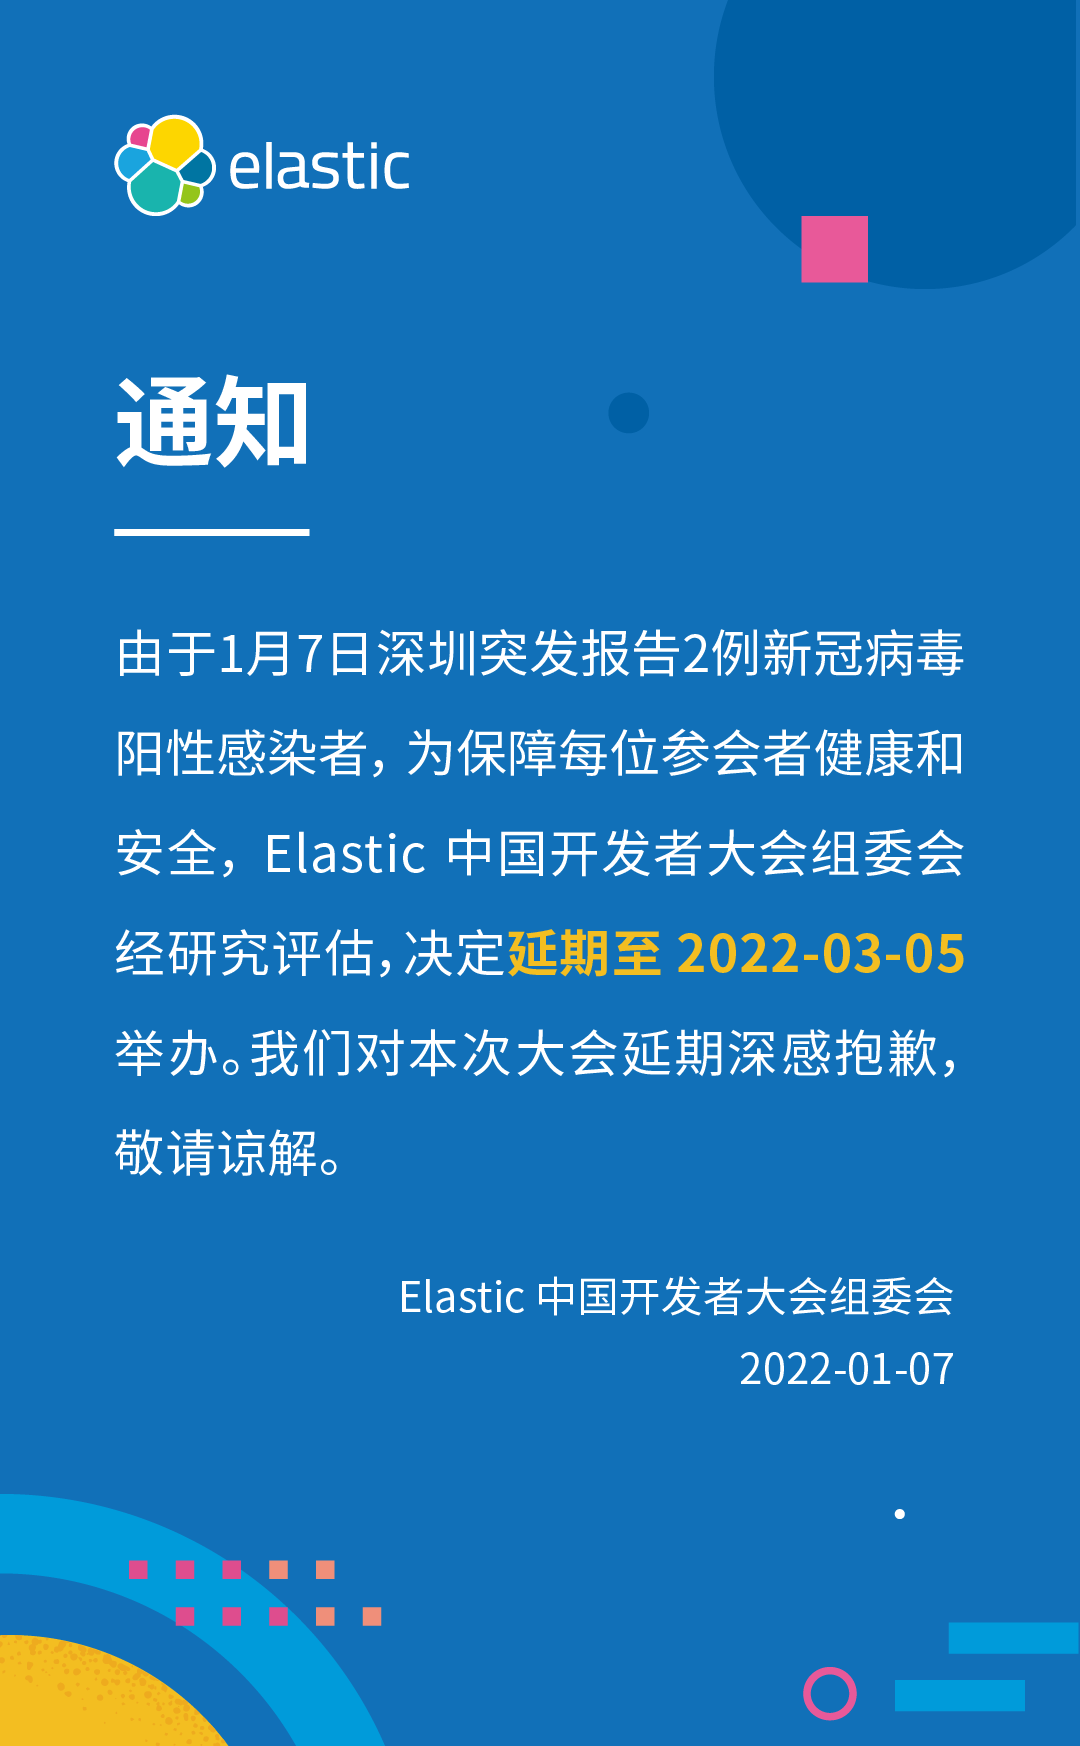
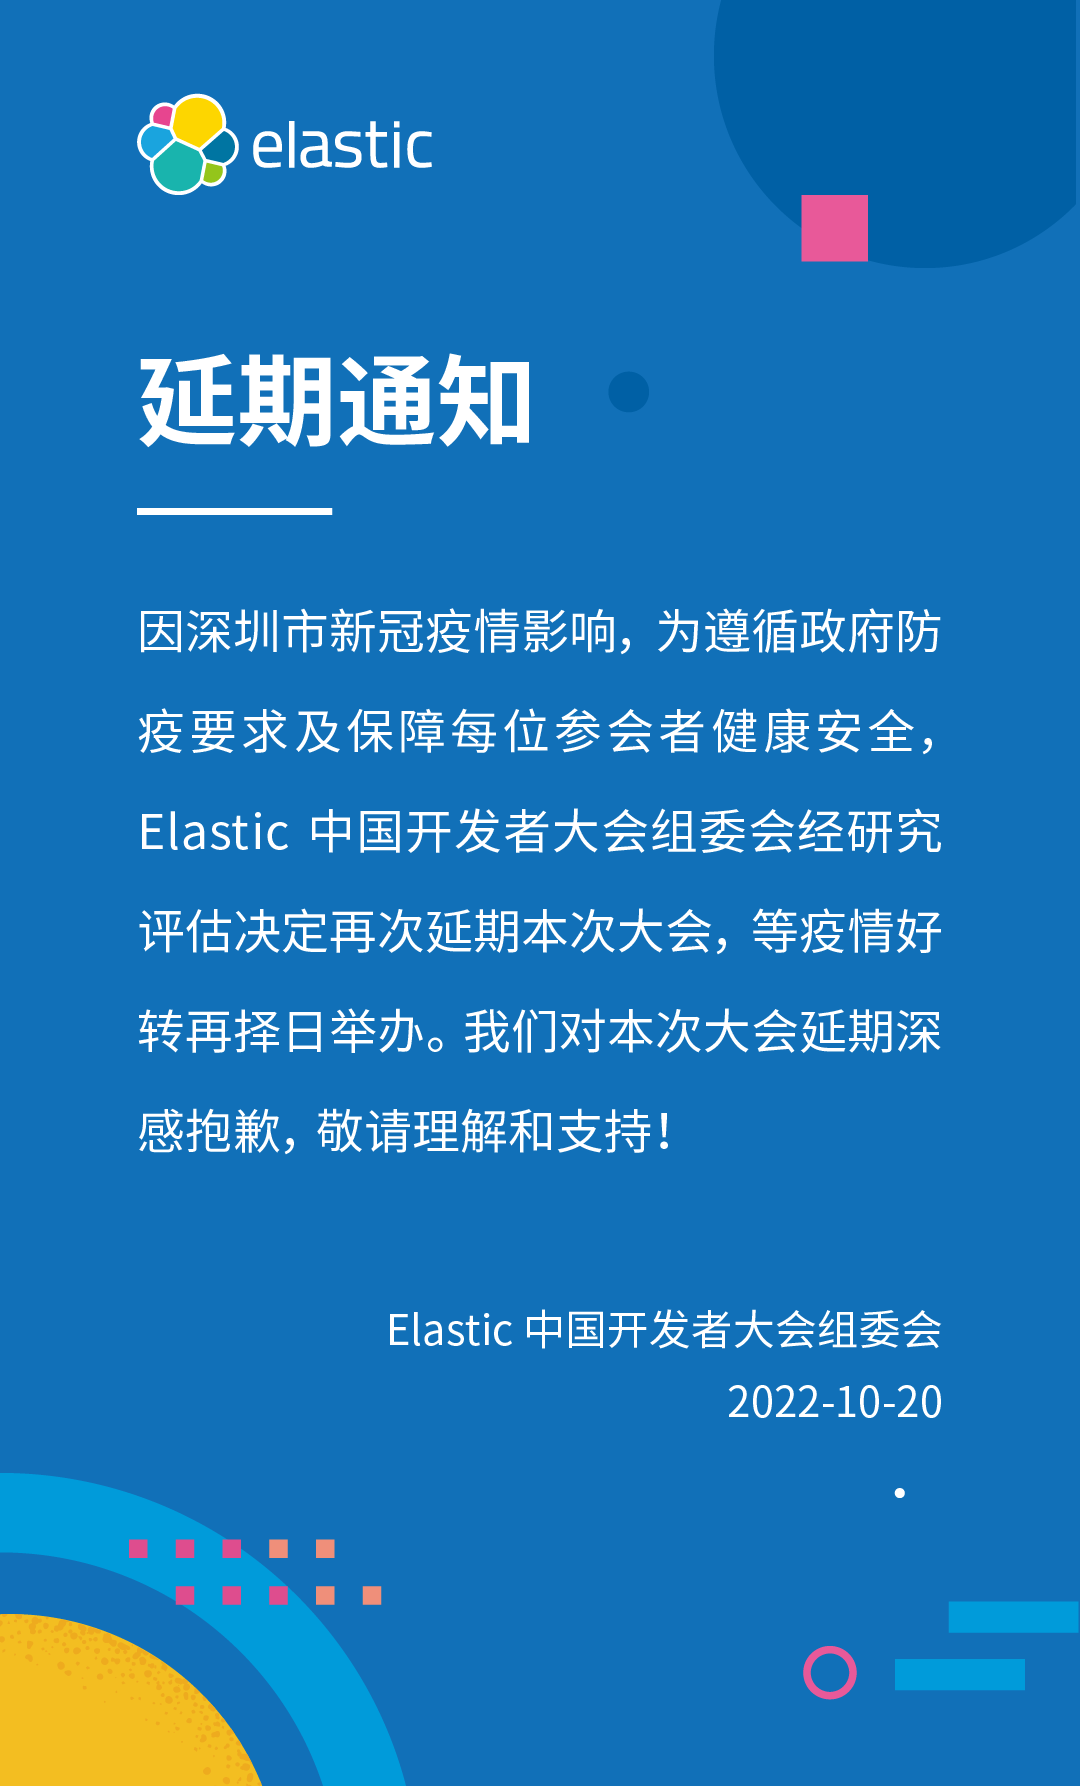
update conf date

diff --git a/2022/index.html b/2022/index.html
@@ -81,7 +81,7 @@
     <header id="site-header" class="site-header sz-2018 valign-center">
         <div class="intro">
             <h1>Elastic 中国开发者大会 2022</h1>
-            <h2>时间：2022-10-29 08:00-18:00</h2>
+            <h2>时间：2022-12-31 08:00-18:00</h2>
             <h2>地点：深圳市福田区深圳好日子皇冠假日酒店</h2>
 
             <!--        <a type="button" class="btn btn-primary btn-lg" target="_blank" href="http://elasticsearch.mikecrm.com/uXH61JL">演讲申请</a>-->
@@ -120,12 +120,12 @@
                         年初一个很小的线下聚会，之后每年迅速成长，往年大会的演讲嘉宾有来自 Elastic
                         官方、百度、腾讯、阿里巴巴、360、微博、美团、58、苏宁等众多公司的技术专家，带来过众多精彩的分享，与会听众大多为大数据领域相关的架构师、技术经理与一线开发工程师和运维工程师。
                         <br /><br />
-                        我们本着非盈利目的来举办大会，今年的大会将于2022年10月29号在深圳举行，举办开发者大会的目的是为中国广大的 Elasticsearch
+                        我们本着非盈利目的来举办大会，今年的大会将于2022年12月31日在深圳举行，举办开发者大会的目的是为中国广大的 Elasticsearch
                         开发者提供一个技术交流和学习切磋的地方，汇集业界众多的成功案例，集思广益，发散思维，促进社区和行业的进步。
                         <br /><br />
                         大会将提前半天组织一场线上游戏赛事：《Elastic安全：CTF夺旗游戏》，CTF 是 "Capture the Flag"
                         (夺旗)的缩写，是一种基于计算机的比赛，通过上手实践教授信息安全技能。
-                        赛事时间段：2022-10-28 12:00 ~ 23:59，赛后冠亚军将获得 Elastic 官方提供价值 $400 美金的 Elastic 认证工程师考试券，详情参见 <a
+                        赛事时间段：2022-12-30 12:00 ~ 23:59，赛后冠亚军将获得 Elastic 官方提供价值 $400 美金的 Elastic 认证工程师考试券，详情参见 <a
                             href="./ctf.html">CTF介绍</a>。
                         <br /><br />
                         鉴于当前疫情防控形势，为保障每位参会者健康和安全，根据深圳市相关防疫要求，经大会组委会评估，本次大会防疫措施制定如下：<a href="./guide.html#eg">防疫须知</a>。
@@ -805,16 +805,16 @@
     <script src="/static/js/date-util.js"></script>
     <script src="/static/plugins/sweetalert2/sweetalert2.all.min.js"></script>
     <script>
-    // Swal.fire({
-    //     imageUrl: '/static/images/2021/others/elastic_delay_notice_0528.png',
-    //     imageWidth: 300,
-    //     imageAlt: '大会延期公告',
-    //     title: '大会延期公告',
-    //     timer: 15000,
-    //     // title: '大会延期公告',
-    //     // text: '由于1月7日深圳突发报告2例新冠病毒阳性感染者，为保障每位参会者健康和安全，Elastic中国开发者大会组委会经研究评估，决定延期至 2022-10-29 举办。对本次大会延期大会组委会表示抱歉，敬请谅解。',
-    //     // confirmButtonText: 'OK',
-    // })
+        Swal.fire({
+            imageUrl: '/static/images/2021/others/elastic_delay_notice.png',
+            imageWidth: 300,
+            imageAlt: '大会延期公告',
+            title: '大会延期公告',
+            timer: 8000,
+            // title: '大会延期公告',
+            // text: '由于1月7日深圳突发报告2例新冠病毒阳性感染者，为保障每位参会者健康和安全，Elastic中国开发者大会组委会经研究评估，决定延期至 2022-12-31 举办。对本次大会延期大会组委会表示抱歉，敬请谅解。',
+            // confirmButtonText: 'OK',
+        })
     </script>
 
     <script type="text/javascript" src="//api.map.baidu.com/api?v=3.0&ak=DDU325vxk16zPn6DKlS6Qffx"></script>

diff --git a/2022/schedule.html b/2022/schedule.html
@@ -94,7 +94,7 @@
                 <div class="col-md-12">
                     <table class="schedule-pc" cellpadding="0" cellspacing="0">
                         <tr class="schedule-pc-header">
-                            <td>10月28日</td>
+                            <td>12月30日</td>
                             <td colspan="5" class="col-item colspan">Elastic 安全游戏赛事</td>
                         </tr>
                         <tr>
@@ -113,7 +113,7 @@
                 <div class="col-md-12">
                     <table class="schedule-pc" cellpadding="0" cellspacing="0">
                         <tr class="schedule-pc-header">
-                            <td>10月29日</td>
+                            <td>12月31日</td>
                             <td colspan="5" class="col-item colspan">主会场</td>
                         </tr>
                         <tr>
@@ -480,14 +480,14 @@
                 <div class="col-md-12">
                     <div class="m-schedule-list">
                         <div class="m-schedule-section">
-                            <div class="m-schedule-header"><span class="m-schedule-title">【10月28日】Elastic 安全：CTF
+                            <div class="m-schedule-header"><span class="m-schedule-title">【12月30日】Elastic 安全：CTF
                                     夺旗游戏</span></div>
                             <div class="m-schedule-content">
                                 <div class="m-schedule-time"><span>12:00</span></div>
                                 <div class="m-schedule-timeline"></div>
                                 <div class="m-speech-content">
                                     <a class="m-speech-content" href="ctf.html">
-                                        <div class="m-speech-title">CTF 开始（2022-10-28 12:00）</div>
+                                        <div class="m-speech-title">CTF 开始（2022-12-30 12:00）</div>
                                     </a>
                                 </div>
                             </div>
@@ -496,7 +496,7 @@
                                 <div class="m-schedule-timeline"></div>
                                 <div class="m-speech-content">
                                     <a class="m-speech-content" href="ctf.html">
-                                        <div class="m-speech-title">CTF 结束（2022-10-28 23:59）</div>
+                                        <div class="m-speech-title">CTF 结束（2022-12-30 23:59）</div>
                                     </a>
                                 </div>
                             </div>
@@ -504,7 +504,7 @@
                         </div>
 
                         <div class="m-schedule-section">
-                            <div class="m-schedule-header"><span class="m-schedule-title">【10月29日】主会场</span></div>
+                            <div class="m-schedule-header"><span class="m-schedule-title">【12月31日】主会场</span></div>
                             <div class="m-schedule-content">
                                 <div class="m-schedule-time"><span>07:30</span></div>
                                 <div class="m-schedule-timeline"></div>

diff --git a/2022/live.html b/2022/live.html
@@ -142,7 +142,7 @@
             <div class="live-box">
                 <div class="row">
                     <div class="col-md-12">
-                        <h3 class="section-title sub-title">主会场 <small>直播时段：2022-10-29 周六 08:45-12:15</small></h3>
+                        <h3 class="section-title sub-title">主会场 <small>直播时段：2022-12-31 周六 08:45-12:15</small></h3>
                     </div>
                 </div>
                 <div class="row">
@@ -188,7 +188,7 @@
             <div class="live-box">
                 <div class="row">
                     <div class="col-md-12">
-                        <h3 class="section-title sub-title">分会场A <small>直播时段：2022-10-29 周六 13:30-16:30</small></h3>
+                        <h3 class="section-title sub-title">分会场A <small>直播时段：2022-12-31 周六 13:30-16:30</small></h3>
                     </div>
                 </div>
                 <div class="row">
@@ -222,7 +222,7 @@
             <div class="live-box">
                 <div class="row">
                     <div class="col-md-12">
-                        <h3 class="section-title sub-title">分会场B <small>直播时段：2022-10-29 周六 13:30-17:00</small></h3>
+                        <h3 class="section-title sub-title">分会场B <small>直播时段：2022-12-31 周六 13:30-17:00</small></h3>
                     </div>
                 </div>
                 <div class="row">
@@ -268,7 +268,7 @@
             <div class="live-box">
                 <div class="row">
                     <div class="col-md-12">
-                        <h3 class="section-title sub-title">分会场C <small>直播时段：2022-10-29 周六 13:30-16:30</small></h3>
+                        <h3 class="section-title sub-title">分会场C <small>直播时段：2022-12-31 周六 13:30-16:30</small></h3>
                     </div>
                 </div>
                 <div class="row">

diff --git a/2022/guide.html b/2022/guide.html
@@ -93,14 +93,14 @@
         <div class="wrap">
             <div class="item">
                 <img src="/static/images/2021/bg/banner_guide.png">
-                <p>2022 Elastic 中国开发者大会将于2022年10月29日周六在深圳好日子皇冠假日酒店召开。届时将有来自
+                <p>2022 Elastic 中国开发者大会将于2022年12月31日周六在深圳好日子皇冠假日酒店召开。届时将有来自
                     Elastic、Google、腾讯、阿里、字节、vivo等公司22位技术专家为大家带来围绕 Elastic 开源技术的精彩分享。</p>
                 <p>在精彩的演讲之余，大会同时开设了现场幸运抽奖、现场闪电演讲、招聘墙、合影区、照片打印等全方位的互动环节为嘉宾带来丰富的参会体验，等你来玩哦~</p>
             </div>
             <div class="item" id="eg">
                 <div class="title">防疫须知</div>
                 <p>鉴于当前疫情防控形势，为保障每位参会者健康和安全，根据深圳市相关防疫要求，经大会组委会评估，本次 Elastic
-                    中国开发者大会防疫措施制定如下。该防疫措施适用于大会所有参会嘉宾，执行期为2022年10月29日。</p>
+                    中国开发者大会防疫措施制定如下。该防疫措施适用于大会所有参会嘉宾，执行期为2022年12月31日。</p>
                 <p>查看最新的广东省深圳市出行防疫政策（<a
                         href="https://www.gd.gov.cn/gdywdt/zwzt/yqfkzccs/dszc/index.html">https://www.gd.gov.cn/gdywdt/zwzt/yqfkzccs/dszc/index.html</a>）;
                 </p>

diff --git a/2022/ctf.html b/2022/ctf.html
@@ -145,7 +145,7 @@
             <div class="ctf-part">
                 <h3>本次线上 CTF 赛事时间段</h3>
                 <div>
-                    2022-10-28 12:00 ~ 23:59，持续12小时。
+                    2022-12-30 12:00 ~ 23:59，持续12小时。
                 </div>
             </div>
             <div class="ctf-part">
@@ -153,7 +153,7 @@
                 <div>
                     <p><strong>竞赛页面：</strong>https://elasticsecurityctf-apac.ctfd.io/register</p>
                     <p><strong>威胁捕获页面：</strong>https://ela.st/elastic-security-ctf-china</p>
-                    <p>注：访问用户名和密码将会于1.7号中午12点在"Elastic开发者大会2021@深圳"微信群内公布，敬请关注！（需要参加CTF夺旗游戏的小伙伴可以加微信：<strong>lsy965145175</strong>
+                    <p>注：访问用户名和密码将会于12月30日中午12点在"Elastic开发者大会2022@深圳"微信群内公布，敬请关注！（需要参加CTF夺旗游戏的小伙伴可以加微信：<strong>lsy965145175</strong>
                         拉你入群）</p>
                 </div>
             </div>
@@ -206,7 +206,7 @@
                     (注：奖品仅限大会已报名参会用户，非大会报名用户成绩无效)
                 </div>
             </div>
-            <p>本次 CTF 的获奖结果将在10月29日的大会上午颁奖环节宣布。</p>
+            <p>本次 CTF 的获奖结果将在12月31日的大会上午颁奖环节宣布。</p>
             <p>本次活动的最终解释权归 Elastic 中国开发者大会所有。</p>
         </div>
     </section>
